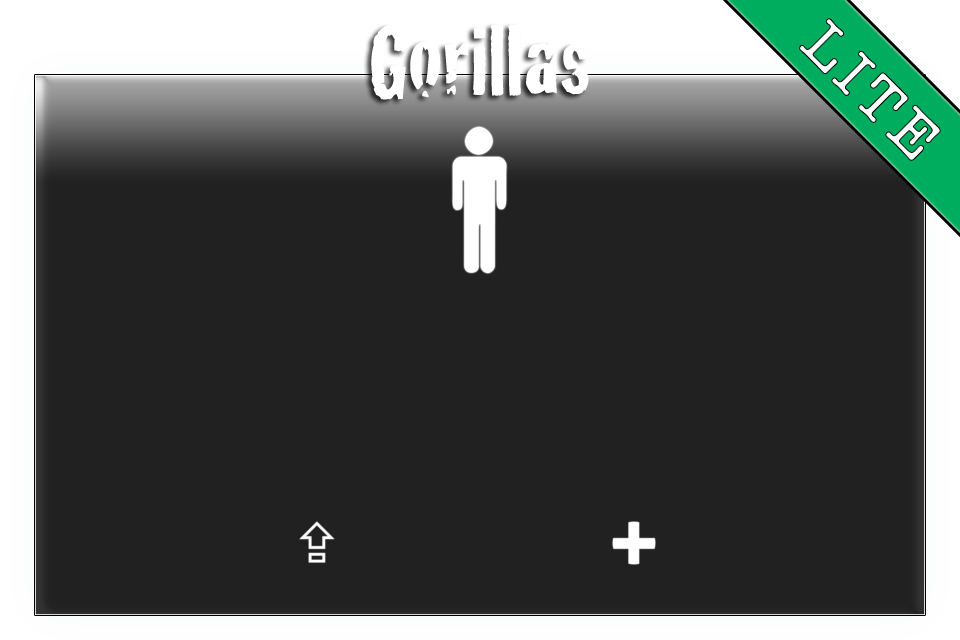
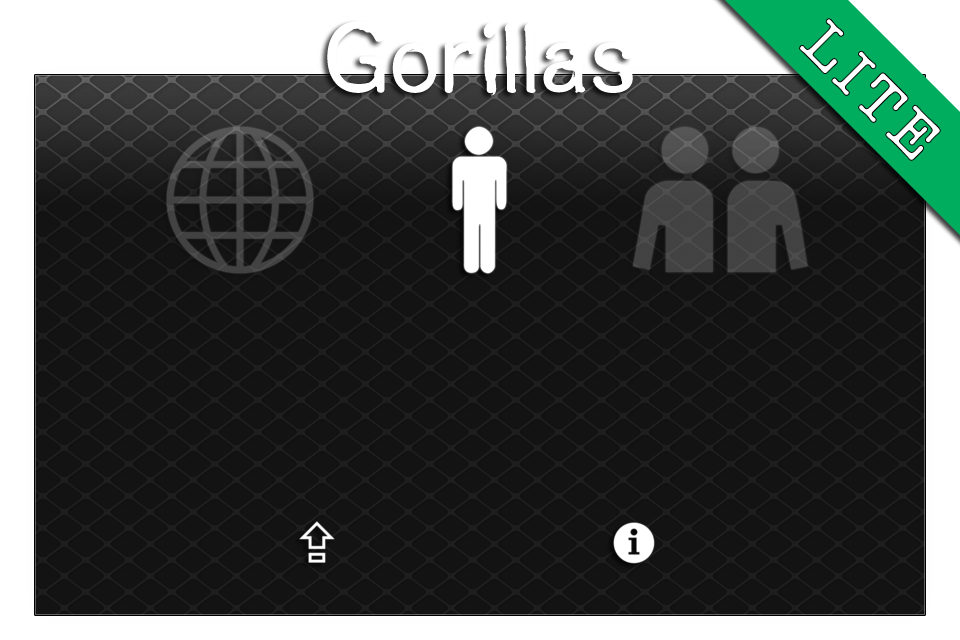
WIP: iPad support.
[ADDED]     Initial iPad support.
[ADDED]     Initial iPad-HD images.
[ADDED]     Scripts to automatically set the build and version from GIT.
[FIXED]     Size of bar not known yet at application launch.  Delay
            showing the HUD and menu.

diff --git a/Gorillas/GorillasAppDelegate.m b/Gorillas/GorillasAppDelegate.m
@@ -114,7 +114,6 @@
     
     // Show the splash screen, this starts the main loop in the current thread.
     [[CCDirector sharedDirector] pushScene:splashScene];
-    [self showMainMenu];
     
     // Game Center setup.
     [[GKLocalPlayer localPlayer] authenticateWithCompletionHandler:^(NSError *error){

diff --git a/Gorillas/GameLayer.m b/Gorillas/GameLayer.m
@@ -510,7 +510,8 @@
     [super onEnter];
     
     [self setPausedSilently:YES];
-    
+    [[GorillasAppDelegate get] showMainMenu];
+
     [self schedule:@selector(updateWeather:) interval:1];
     [self schedule:@selector(randomEncounter:) interval:1];
 }
